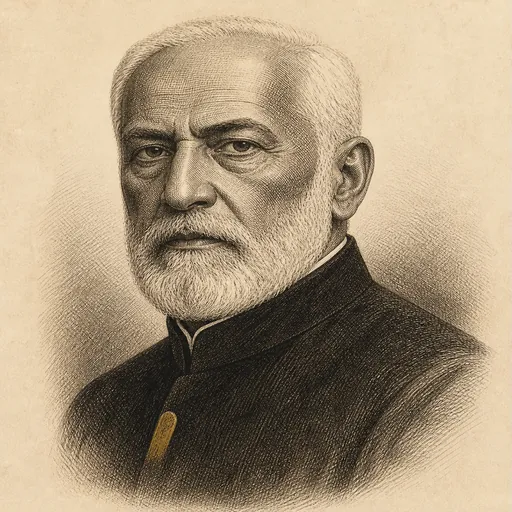
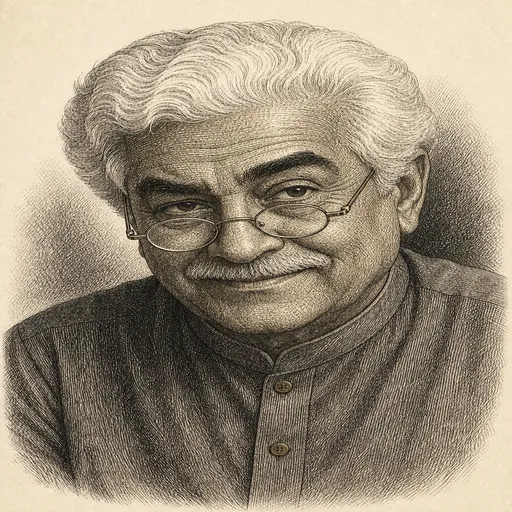
Portraits: competitive, not scholarly
The first set briefed for dignity and got portrait-studio stiffness -
technically good, but nerdy, and nothing like how backgammon is actually played.
The brief now describes someone sitting across the board from you mid-game,
looking straight at their opponent: Davoud certain tonight is his night, Keyvan
roaring at a roll that went his way, Mehrdad looking over his spectacles at
someone walking into a trap he set three moves ago.

One portrait came back resembling a real and highly political Iranian public
figure and was regenerated with a different facial structure. Noted in
PROVENANCE.md, because an unintended likeness is not a small problem in
something made as a gift.

diff --git a/apps/ui/src/assets/portraits/PROVENANCE.md b/apps/ui/src/assets/portraits/PROVENANCE.md
@@ -10,9 +10,14 @@ same material vocabulary as the board itself, so the opponents look as though
 they belong to the same object rather than having been dropped in from a
 different app.
 
-Each brief asked for a dignified individual rather than a type, and for warmth
-even where the character is austere. They are opponents the player is meant to
-enjoy meeting, not obstacles.
+Each brief describes **someone sitting across the board from you mid-game**,
+looking straight at their opponent — competitive, playful, alive. The first
+attempt asked for "dignified" portraits and got portrait-studio stiffness:
+technically good, but scholarly, and nothing like how the game is actually played.
+Backgammon at a real table is full of relish and banter, and the faces should say
+so.
+
+They are opponents the player is meant to enjoy meeting, not obstacles.
 
 | File | Character |
 | --- | --- |
@@ -21,7 +26,16 @@ enjoy meeting, not obstacles.
 | `keyvan.webp` | forties, moustache, laughing, coffee-house player |
 | `mehrdad.webp` | fifties, spectacles, entirely unhurried |
 | `parvaneh.webp` | sixties, serene, content to wait a very long time |
-| `ostad.webp` | seventies, austere, absolute authority |
+| `ostad.webp` | seventies, amused, completely unbothered |
 
 512×512 WebP, ~40KB each. Source PNGs were 1024×1024 and are not kept — regenerate
 from the briefs above if a larger size is ever needed.
+
+
+## A note on likeness
+
+These are invented people. During generation one portrait came back with a
+noticeable resemblance to a real and highly political Iranian public figure, and
+was regenerated with a different facial structure. Worth watching for if these
+are ever regenerated: an unintended likeness is not a small problem, particularly
+in something made as a gift.
